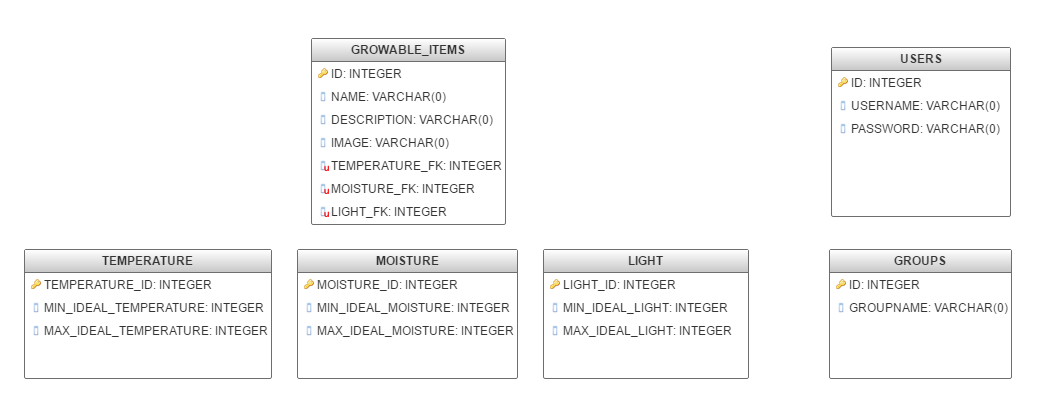
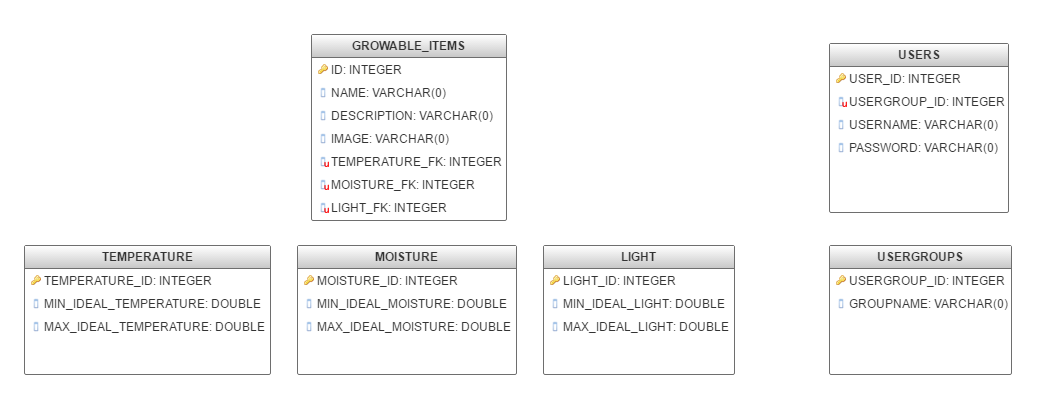
database architecture description

diff --git a/README.md b/README.md
@@ -58,3 +58,9 @@ De temperatuur in de serre is te hoog van de specifieke groente. De sensorTag ga
 ## Database Architectuur
 
 ![alt text](https://github.com/pxlit-projects/entmob2016_3/blob/master/5 - Database/Architectuur.png "Architectuur")
+
+**Omschrijving en relaties**
+
+De growable items representeren de groenten. Elke item heeft een aantal basisgegevens zoals een naam, een omschrijving en een afbeelding. Daarbuiten heeft elk item ook nog expliciet 1 relatie naar temperatuur, luchtvochtigheid en hoeveelheid licht. Elk van deze hebben een minimum- en maximumwaarde. De reden waardoor deze gegevens in een andere tabel steken is omdat een het bijvoorbeeld mogelijk is dat meer dan 1 item dezelfde waarden voor temperatuur kan hebben.
+
+De users zijn er voor de toegang tot de API. Elke user heeft 1 of meerdere groepen waar bepaalde permissies aanhangen.
